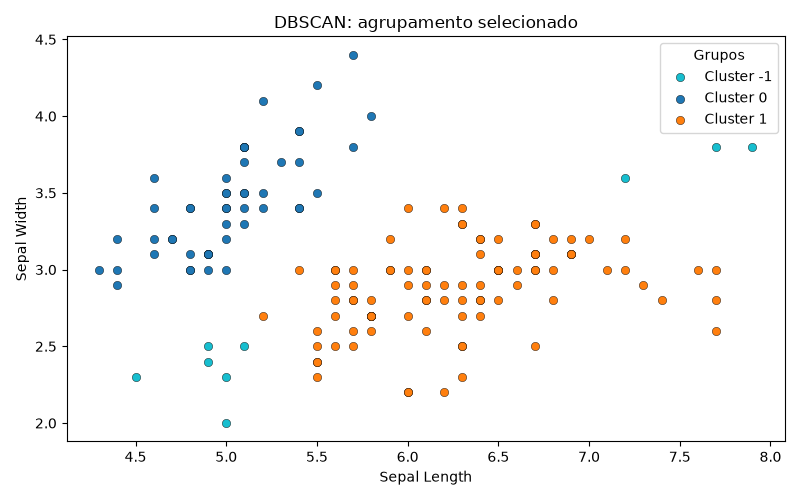
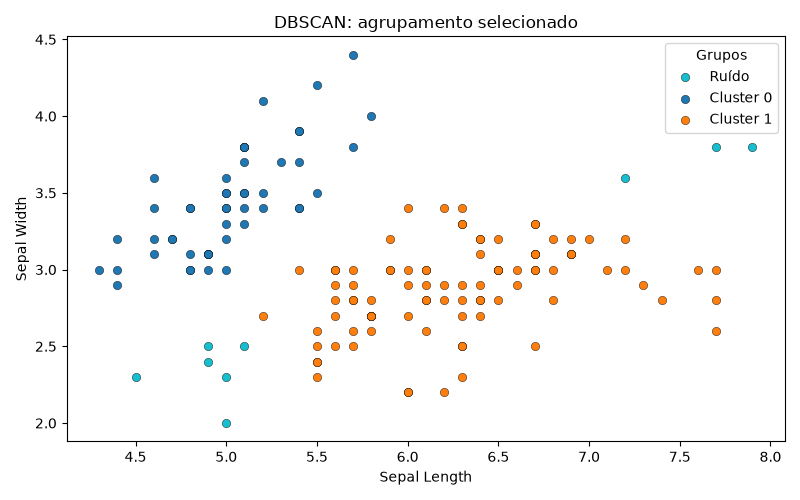
feat: Enhance DBSCAN evaluation and visualization

Changed region(s): [[0.8438, 0.09, 0.9688, 0.27]]

diff --git a/src/apns/experiments.py b/src/apns/experiments.py
@@ -18,6 +18,7 @@ from apns.models import (
 )
 from apns.visualization import (
     plot_cluster_assignments,
+    plot_dbscan_eps_comparison,
     plot_dbscan_metrics,
     plot_hierarchical_dendrogram,
     plot_kmedoids_inertia,
@@ -553,6 +554,7 @@ def evaluate_dbscan_model(
                 "distance": distance,
                 "n_clusters": n_clusters,
                 "n_ruido": n_ruido,
+                "cobertura": 100 * (len(clusters) - n_ruido) / len(clusters),
                 "silhouette": silhouete,
                 "ari": metrics.calcular_ari(
                     y.loc[pontos_validos],
@@ -591,12 +593,26 @@ def export_dbscan_results(
     _save_table(all_results, tables_dir, "dbscan_metrics.csv")
     _save_figure(plots.silhouette_fig, figures_dir / "dbscan_silhouette.png")
     _save_figure(plots.noise_fig, figures_dir / "dbscan_noise.png")
+    _save_figure(plots.coverage_fig, figures_dir / "dbscan_coverage.png")
 
+    eligible = all_results[
+        all_results["n_ruido"].le(10)
+        & all_results["silhouette"].notna()
+    ]
+    if eligible.empty:
+        raise ValueError(
+            "Nenhuma configuração do DBSCAN possui silhueta válida "
+            "com no máximo 10 observações de ruído"
+        )
+    selected_row = eligible.sort_values(
+        ["silhouette", "eps", "minpts"],
+        ascending=[False, True, True],
+    ).iloc[0]
     selected_result = evaluate_dbscan_model(
         x=x,
         y=y,
-        eps=0.6,
-        minpts=5,
+        eps=float(selected_row["eps"]),
+        minpts=int(selected_row["minpts"]),
         distance=distance,
     )
     _save_table(
@@ -613,6 +629,42 @@ def export_dbscan_results(
     _save_figure(
         selected_clusters_fig,
         figures_dir / "dbscan_clusters.png",
+    )
+
+    petal_model = dbscan.DBSCAN.create(
+        eps=0.4,
+        minpts=3,
+        distance=distance,
+    )
+    petal_labels = petal_model.fit_predict(x)
+    petal_clusters_fig = plot_cluster_assignments(
+        x,
+        petal_labels,
+        "DBSCAN: eps = 0,4 e minpts = 3",
+        x_column="petal_length",
+        y_column="petal_width",
+    )
+    _save_figure(
+        petal_clusters_fig,
+        figures_dir / "dbscan_eps04_minpts3_petals.png",
+    )
+
+    def dbscan_factory(*, eps: float, minpts: int):
+        return dbscan.DBSCAN.create(
+            eps=eps,
+            minpts=minpts,
+            distance=distance,
+        )
+
+    eps_comparison_fig = plot_dbscan_eps_comparison(
+        x=x,
+        eps_values=(0.4, 1.0),
+        minpts=5,
+        model_factory=dbscan_factory,
+    )
+    _save_figure(
+        eps_comparison_fig,
+        figures_dir / "dbscan_eps04_eps10_comparison.png",
     )
 
     return all_results

diff --git a/src/apns/visualization.py b/src/apns/visualization.py
@@ -23,6 +23,7 @@ class KMeansLikeMetrics:
 class DBSCANMetrics:
     silhouette_fig: Figure
     noise_fig: Figure
+    coverage_fig: Figure
     metrics: pd.DataFrame
 
 
@@ -96,6 +97,8 @@ def plot_cluster_assignments(
             if cluster_names is not None
             else f"Cluster {cluster}"
         )
+        if cluster_names is None and cluster == -1:
+            cluster_name = "Ruído"
         axis.scatter(
             x.loc[cluster_points, x_column],
             x.loc[cluster_points, y_column],
@@ -448,8 +451,64 @@ def plot_dbscan_metrics(
     noise_axis.legend()
     noise_fig.tight_layout()
 
+    coverage_fig, coverage_axis = plt.subplots(figsize=(8, 5))
+    for minpts, group in df_metrics.groupby("minpts"):
+        group = group.sort_values("eps")
+        coverage_axis.plot(
+            group["eps"],
+            group["cobertura"],
+            marker="o",
+            label=f"min_samples={minpts}",
+        )
+    coverage_axis.set_xlabel("eps")
+    coverage_axis.set_ylabel("Cobertura (%)")
+    coverage_axis.set_title(f"{model_name}: Cobertura por eps")
+    coverage_axis.set_ylim(0, 100)
+    coverage_axis.grid()
+    coverage_axis.legend()
+    coverage_fig.tight_layout()
+
     return DBSCANMetrics(
         silhouette_fig=silhouette_fig,
         noise_fig=noise_fig,
+        coverage_fig=coverage_fig,
         metrics=df_metrics,
     )
+
+
+def plot_dbscan_eps_comparison(
+    x: pd.DataFrame,
+    eps_values: tuple[float, ...],
+    minpts: int,
+    model_factory,
+) -> Figure:
+    figure, axes = plt.subplots(
+        1,
+        len(eps_values),
+        figsize=(6 * len(eps_values), 5),
+        squeeze=False,
+    )
+
+    for axis, eps in zip(axes.flat, eps_values):
+        model = model_factory(eps=eps, minpts=minpts)
+        labels = model.fit_predict(x)
+        for cluster in np.unique(labels):
+            cluster_points = labels == cluster
+            name = "Ruído" if cluster == -1 else f"Cluster {cluster}"
+            axis.scatter(
+                x.loc[cluster_points, "petal_length"],
+                x.loc[cluster_points, "petal_width"],
+                c=[plt.get_cmap("tab10")(cluster % 10)],
+                edgecolors="black",
+                linewidths=0.3,
+                label=name,
+            )
+        axis.set_xlabel("Petal Length")
+        axis.set_ylabel("Petal Width")
+        axis.set_title(f"eps = {eps:g}, minpts = {minpts}")
+        axis.legend(title="Grupos")
+        axis.grid(alpha=0.2)
+
+    figure.suptitle("DBSCAN: comparação entre valores de eps")
+    figure.tight_layout()
+    return figure

diff --git a/src/apns/metrics.py b/src/apns/metrics.py
@@ -7,14 +7,19 @@ from sklearn.metrics import (
 def calcular_silhueta(X, labels, metric="euclidean"):
     """Calcula a silhueta quando há pelo menos dois grupos válidos."""
     labels = list(labels)
-    grupos = set(labels)
+    grupos = set(labels) - {-1}
 
-    if len(grupos) < 2 or len(grupos) >= len(labels):
+    if len(grupos) < 2:
         return None
-
     return silhouette_score(X, labels, metric=metric)
 
 
 def calcular_ari(y_real, labels):
     """Compara os agrupamentos com os rótulos reais."""
+    y_real = list(y_real)
+    labels = list(labels)
+    if len(y_real) < 2 or len(set(labels)) < 2:
+        return None
+    if len(y_real) != len(labels):
+        raise ValueError("y_real e labels devem ter o mesmo comprimento")
     return adjusted_rand_score(y_real, labels)
